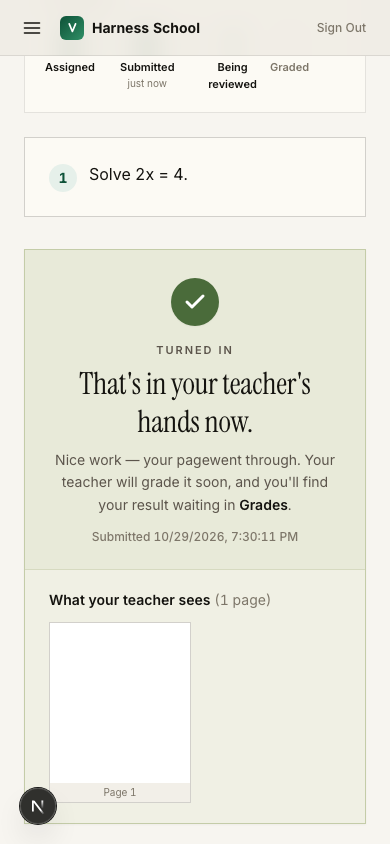
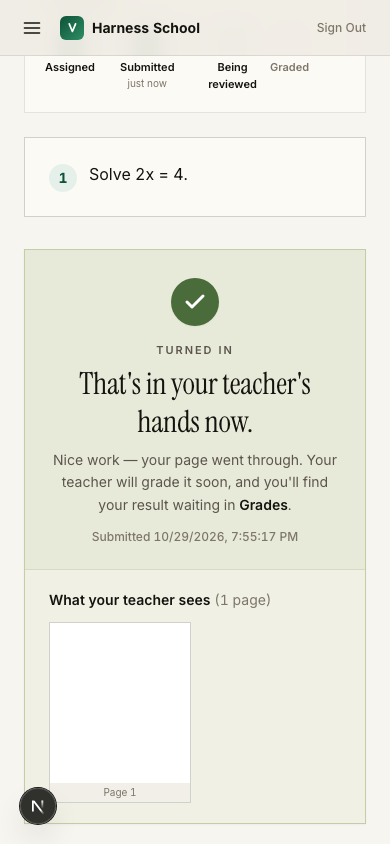
fix: Turned in copy keeps the space before "went through"
Claude-Session: https://claude.ai/code/session_01G6C8ExqtfnML3bPFwxdP8h

Changed region(s): [[0.3692, 0.5237, 0.8615, 0.5545], [0.1231, 0.5237, 0.3077, 0.5545], [0.6769, 0.6161, 0.7077, 0.6469]]

diff --git a/web/src/components/school/student/submitted-view.tsx b/web/src/components/school/student/submitted-view.tsx
@@ -101,8 +101,8 @@ export function SubmittedView({ submission, graded, animateEntrance }: Props) {
           That&apos;s in your teacher&apos;s hands now.
         </h2>
         <p className="mx-auto mt-2 max-w-md text-sm leading-relaxed text-text-secondary">
-          Nice work — {pageCount === 1 ? "your page" : `all ${pageCount} pages`} went
-          through. Your teacher will grade it soon, and you&apos;ll find your
+          Nice work — {pageCount === 1 ? "your page" : `all ${pageCount} pages`}{" "}
+          went through. Your teacher will grade it soon, and you&apos;ll find your
           result waiting in{" "}
           <span className="font-semibold text-text-primary">Grades</span>.
         </p>
